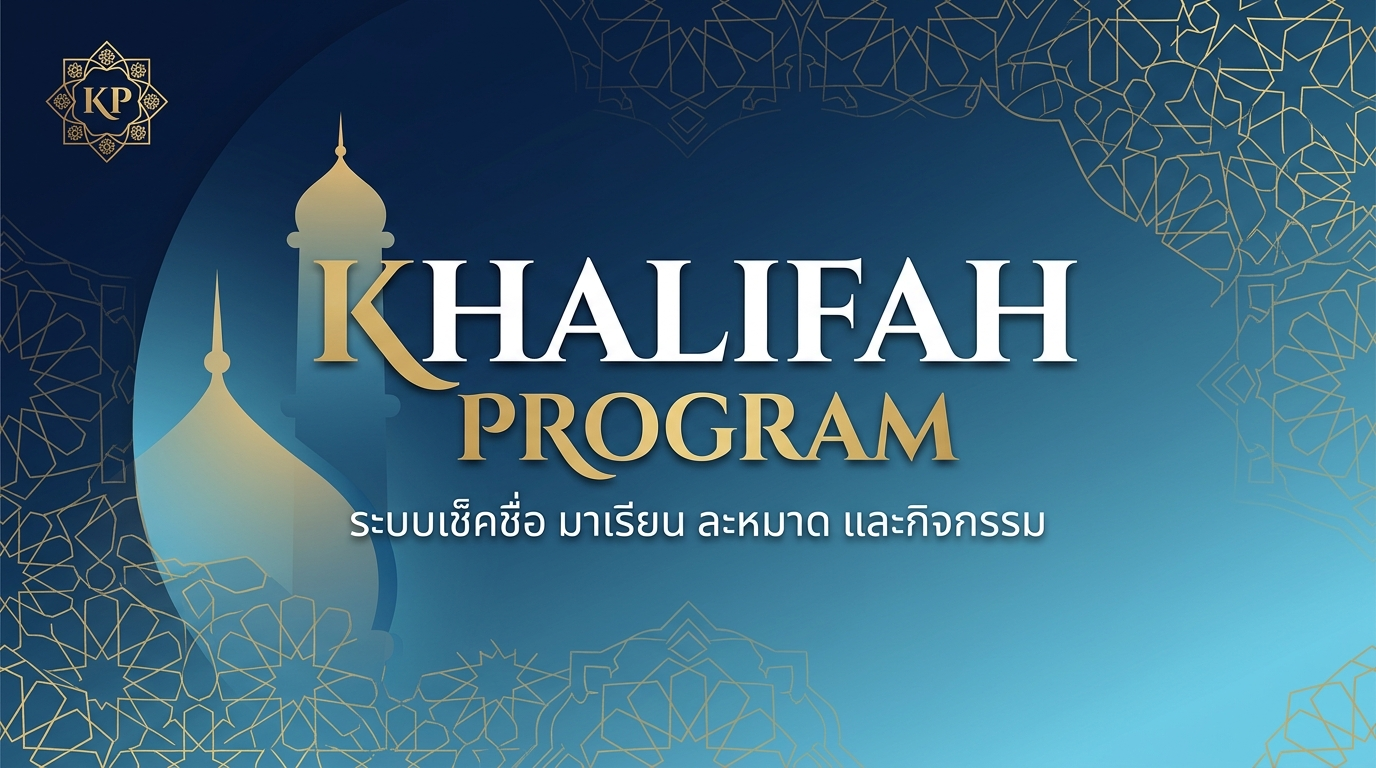
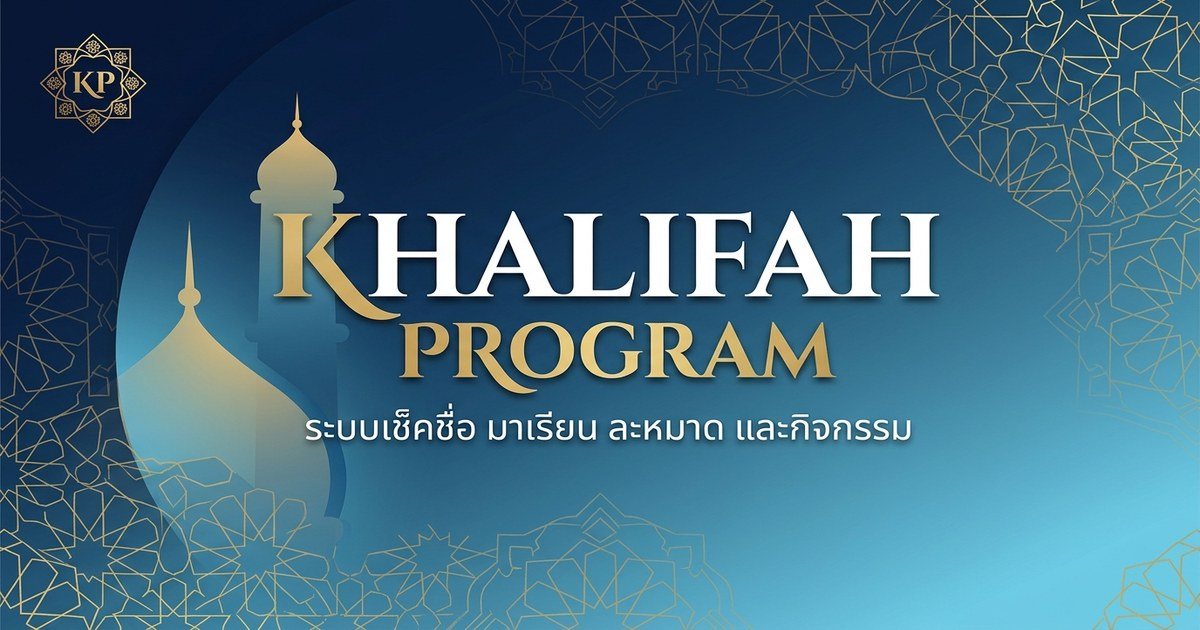
Update Open Graph meta tags with absolute https URLs and optimized 1200x630 thumbnail for LINE and Facebook

diff --git a/index.html b/index.html
@@ -6,19 +6,29 @@
   <title>KHALIFAH PROGRAM - ระบบเช็คชื่อ มาเรียน ละหมาด และกิจกรรม</title>
   <link rel="icon" type="image/png" href="assets/logo.png">
 
-  <!-- Open Graph / Facebook / LINE Preview -->
+  <!-- Primary Meta Tags -->
+  <meta name="title" content="KHALIFAH PROGRAM - ระบบเช็คชื่อ มาเรียน ละหมาด และกิจกรรม">
+  <meta name="description" content="KHALIFAH PROGRAM - ระบบเช็คชื่อมาเรียน ละหมาด 5 เวลา และบันทึกผลบุญศาสนกิจ">
+
+  <!-- Open Graph / Facebook / LINE Preview (Absolute URLs required by crawlers) -->
   <meta property="og:type" content="website">
+  <meta property="og:url" content="https://khalifah-program.vercel.app/">
+  <meta property="og:site_name" content="KHALIFAH PROGRAM">
   <meta property="og:title" content="KHALIFAH PROGRAM">
-  <meta property="og:description" content="ระบบเช็คชื่อ มาเรียน ละหมาด และกิจกรรม">
-  <meta property="og:image" content="assets/thumbnail.png">
+  <meta property="og:description" content="ระบบเช็คชื่อมาเรียน ละหมาด และกิจกรรมนักเรียน">
+  <meta property="og:image" content="https://khalifah-program.vercel.app/assets/thumbnail.jpg">
+  <meta property="og:image:secure_url" content="https://khalifah-program.vercel.app/assets/thumbnail.jpg">
+  <meta property="og:image:type" content="image/jpeg">
   <meta property="og:image:width" content="1200">
-  <meta property="og:image:height" content="675">
+  <meta property="og:image:height" content="630">
+  <meta property="og:image:alt" content="KHALIFAH PROGRAM Preview">
 
   <!-- Twitter Card -->
   <meta name="twitter:card" content="summary_large_image">
+  <meta name="twitter:url" content="https://khalifah-program.vercel.app/">
   <meta name="twitter:title" content="KHALIFAH PROGRAM">
-  <meta name="twitter:description" content="ระบบเช็คชื่อ มาเรียน ละหมาด และกิจกรรม">
-  <meta name="twitter:image" content="assets/thumbnail.png">
+  <meta name="twitter:description" content="ระบบเช็คชื่อมาเรียน ละหมาด และกิจกรรมนักเรียน">
+  <meta name="twitter:image" content="https://khalifah-program.vercel.app/assets/thumbnail.jpg">
   
   <!-- Font Awesome Icons -->
   <link rel="stylesheet" href="https://cdnjs.cloudflare.com/ajax/libs/font-awesome/6.4.0/css/all.min.css">
